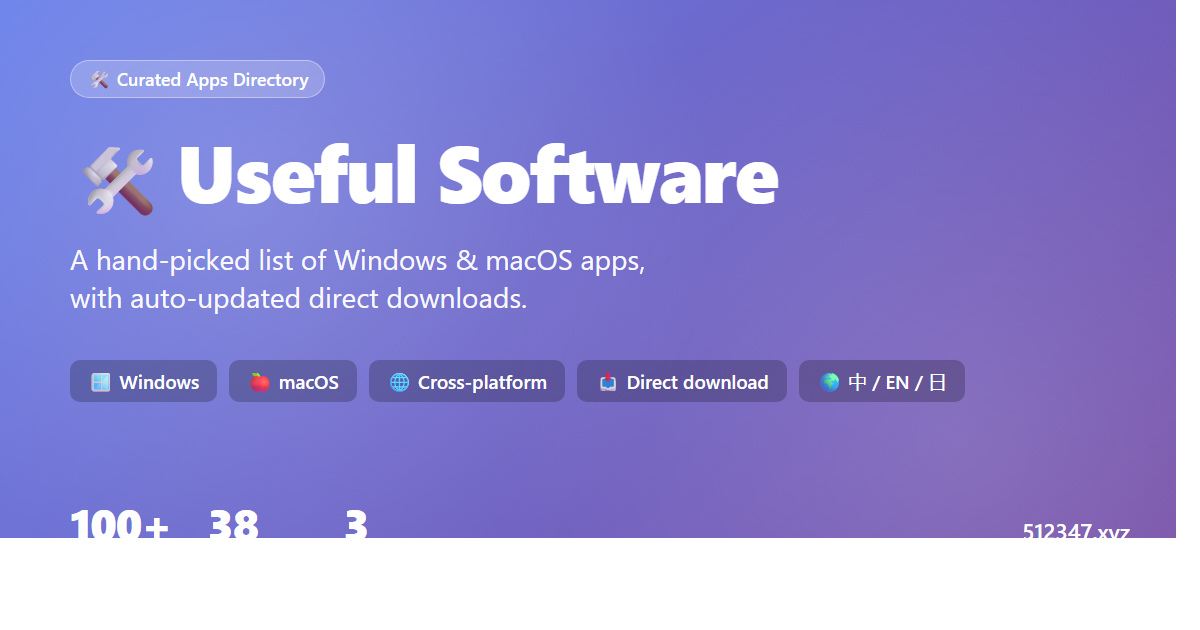
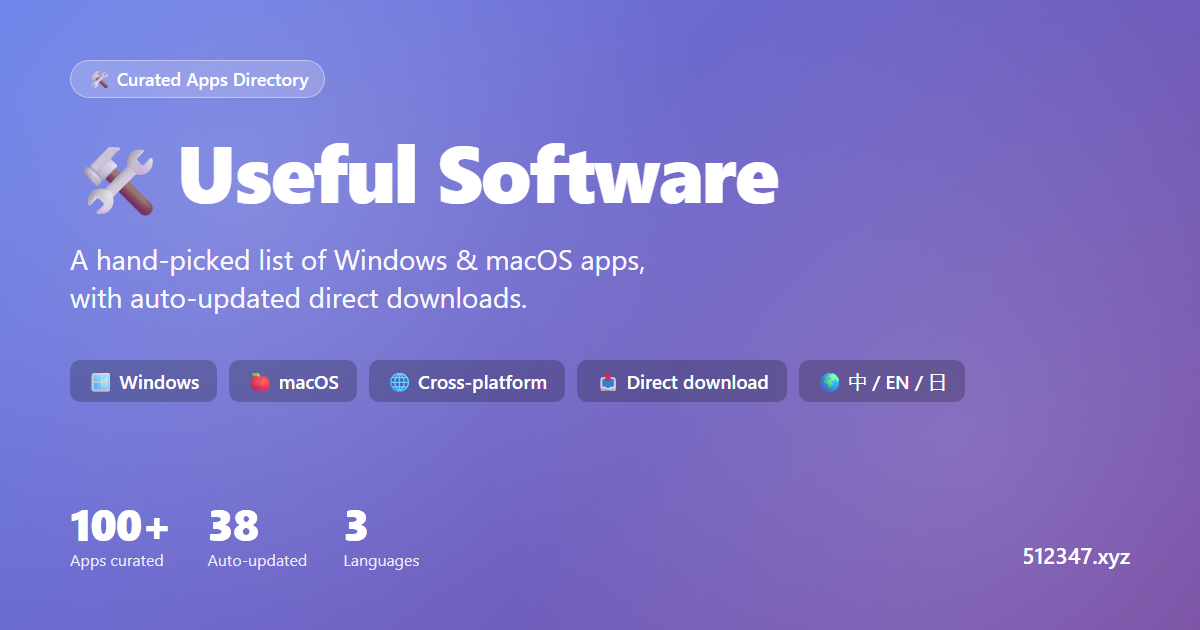
移除站点上的 GitHub 链接与用户名痕迹（隐私清理）
- 删 header GitHub 链接 + meta author
- footer / modal 去除指向仓库的链接
- 重新生成 og-image.png（去掉图上 github.com/HowCanLove 字样）
- 仓库保持公开，网站正常在线

Changed region(s): [[0.0, 0.0, 1.0, 1.0]]

diff --git a/index.html b/index.html
@@ -5,7 +5,6 @@
   <meta name="viewport" content="width=device-width, initial-scale=1.0">
   <meta name="description" content="Curated list of useful Windows and macOS software — filterable by OS and category, every entry has the official site, a direct download (auto-updated for GitHub-hosted projects), screenshots and a localised intro in 中文 / English / 日本語.">
   <meta name="keywords" content="useful software, Windows software, macOS apps, free software, open source, 实用软件, 软件推荐, 精选软件">
-  <meta name="author" content="HowCanLove">
   <meta name="theme-color" content="#667eea">
   <link rel="canonical" href="https://512347.xyz/">
   <title>Useful Software · Curated Windows & macOS Apps · 100+ apps with auto-updated downloads</title>
@@ -54,10 +53,6 @@
     <div class="header-inner">
       <h1 class="site-title" data-i18n="site.title">🛠 Useful Software</h1>
       <p class="site-tagline" data-i18n="site.tagline">Curated Windows & macOS apps · regularly updated</p>
-      <a class="header-link" href="https://github.com/HowCanLove/useful-software" target="_blank" rel="noopener">
-        <svg height="20" viewBox="0 0 16 16" width="20" fill="currentColor"><path d="M8 0C3.58 0 0 3.58 0 8c0 3.54 2.29 6.53 5.47 7.59.4.07.55-.17.55-.38 0-.19-.01-.82-.01-1.49-2.01.37-2.53-.49-2.69-.94-.09-.23-.48-.94-.82-1.13-.28-.15-.68-.52-.01-.53.63-.01 1.08.58 1.23.82.72 1.21 1.87.87 2.33.66.07-.52.28-.87.51-1.07-1.78-.2-3.64-.89-3.64-3.95 0-.87.31-1.59.82-2.15-.08-.2-.36-1.02.08-2.12 0 0 .67-.21 2.2.82.64-.18 1.32-.27 2-.27.68 0 1.36.09 2 .27 1.53-1.04 2.2-.82 2.2-.82.44 1.1.16 1.92.08 2.12.51.56.82 1.27.82 2.15 0 3.07-1.87 3.75-3.65 3.95.29.25.54.73.54 1.48 0 1.07-.01 1.93-.01 2.2 0 .21.15.46.55.38A8.013 8.013 0 0016 8c0-4.42-3.58-8-8-8z"/></svg>
-        <span data-i18n="header.github">GitHub</span>
-      </a>
     </div>
   </header>
 

diff --git a/app.js b/app.js
@@ -503,7 +503,7 @@ function loadCategory() {    try {      const saved = localStorage.getItem(CATEG
 
     const footer = document.getElementById('footerText');
     if (footer) {
-      const linkHTML = `<a href="https://github.com/HowCanLove/useful-software/edit/main/data.js" target="_blank" rel="noopener">${t('footer.linkText')}</a>`;
+      const linkHTML = t('footer.linkText');
       footer.innerHTML = t('footer.text', { link: linkHTML, n: SOFTWARE.length });
     }
 
@@ -572,12 +572,11 @@ function loadCategory() {    try {      const saved = localStorage.getItem(CATEG
     } else {
       $modalMedia.innerHTML = '';
       $modalMedia.hidden = true;
-      const editUrl = 'https://github.com/HowCanLove/useful-software/edit/main/data.js';
       const noMediaText = state.lang === 'zh'
-        ? `🖼 暂无截图或视频。可以 <a href="${editUrl}" target="_blank" rel="noopener">编辑 data.js</a> 给这条加 <code>media</code> 字段。`
+        ? `🖼 暂无截图或视频。可以 编辑 data.js 给这条加 <code>media</code> 字段。`
         : state.lang === 'ja'
-          ? `🖼 スクリーンショット・動画は未登録。<a href="${editUrl}" target="_blank" rel="noopener">data.js</a> を編集して <code>media</code> フィールドを追加できます。`
-          : `🖼 No screenshots or videos yet. <a href="${editUrl}" target="_blank" rel="noopener">Edit data.js</a> to add a <code>media</code> field for this entry.`;
+          ? `🖼 スクリーンショット・動画は未登録。data.js を編集して <code>media</code> フィールドを追加できます。`
+          : `🖼 No screenshots or videos yet. Edit data.js to add a <code>media</code> field for this entry.`;
       $modalMediaEmpty.innerHTML = noMediaText;
       $modalMediaEmpty.hidden = false;
     }

diff --git a/scripts/og-template.html b/scripts/og-template.html
@@ -117,7 +117,6 @@
   </div>
   <div class="url">
     512347.xyz
-    <small>github.com/HowCanLove/useful-software</small>
   </div>
 </body>
 </html>
